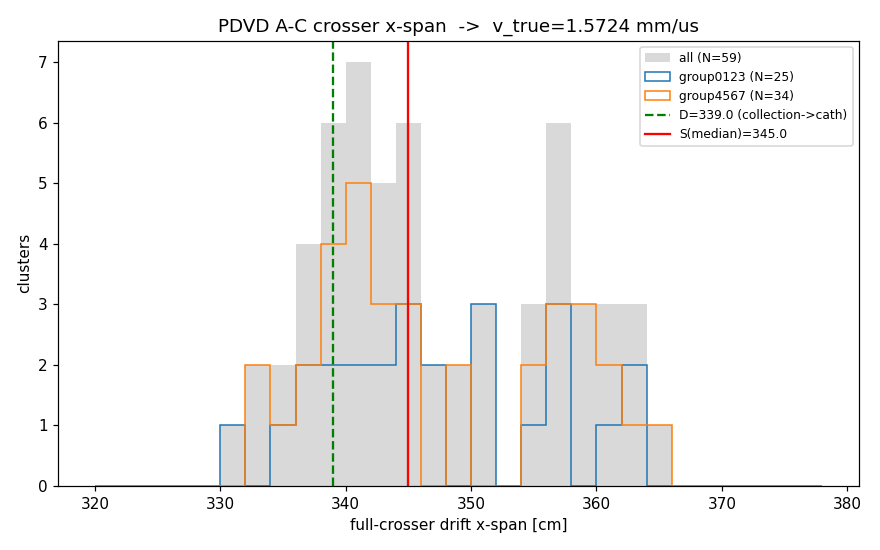
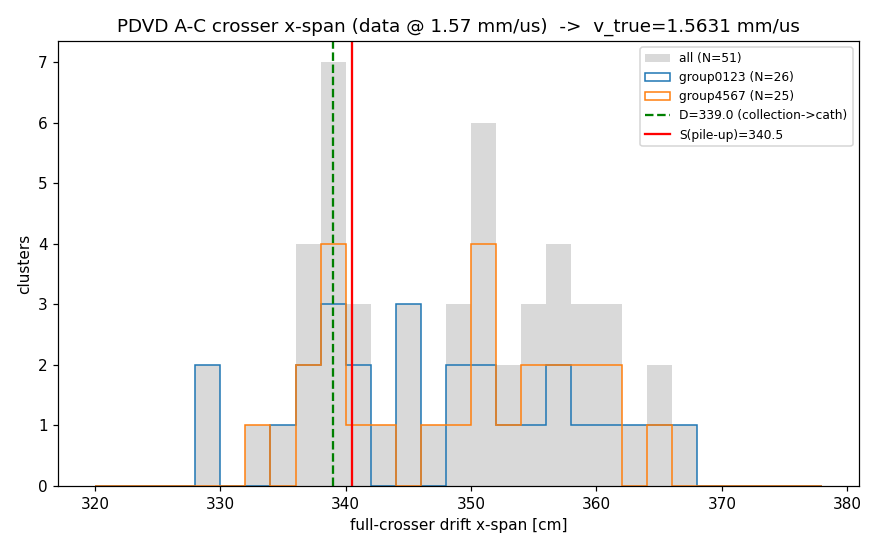
pdvd drift calib: robust pile-up estimator + closure check
The median full-crosser span is tail-sensitive (over-merged / large-overshoot
tracks): it gave 1.572 on the original 1.6 data but 1.522 on the re-clustered
1.57 data, i.e. not invariant. Switch the estimator to the span PILE-UP (mode),
which is stable; add a --v-reco arg (the drift_speed the INPUT data was
reconstructed with) so the script stays correct after reclustering.

Closure: on the 142 events now re-clustered at 1.57, the full-crosser pile-up
sits at ~340 cm = D (339 cm) and `--v-reco 1.57` returns v_true ~1.563 (~0.4%
from 1.57) -- the loop closes. v_true ~ 1.56-1.57; 1.57 kept (within the
estimator/statistics spread). Figure regenerated as the reproducible closure plot.

diff --git a/pdvd/drift_calib/calib_drift_velocity.py b/pdvd/drift_calib/calib_drift_velocity.py
@@ -43,7 +43,12 @@ import zipfile
 
 import numpy as np
 
-V_RECO = 1.6  # mm/us, current toolkit drift_speed (cfg/.../protodunevd/clus.jsonnet)
+# Drift speed the INPUT mabc data was reconstructed with (NOT necessarily the
+# current config).  The original calibration ran on data made at 1.6 and yielded
+# ~1.57.  The work/ dumps have since been re-clustered at 1.57, so to re-derive
+# from the current data pass `--v-reco 1.57`; the full-crosser pile-up then sits at
+# D (~339 cm) and v_true comes back ~1.57 -- the closure / self-consistency check.
+V_RECO_DEFAULT = 1.6  # mm/us
 
 # Geometry (cm) -- params.jsonnet + protodunevd-wires-larsoft-v5 store.
 X_W = 341.55              # W collection plane (xorig in time2drift; = apa_cpa)
@@ -108,7 +113,26 @@ def is_full_crosser(r, anode_reach_min, cath_lo, cath_hi):
     return (cath_lo <= cc <= cath_hi) if r["grp"] == 0 else (-cath_hi <= cc <= -cath_lo)
 
 
-def report(tag, full):
+def span_pileup(sp, lo=330.0, hi=375.0, binw=3.0):
+    """Robust full-drift span = the PILE-UP (mode) of the span distribution.
+
+    All genuine full crossers share the same true drift extent, so their
+    reconstructed spans pile at one value; over-merged / large-overshoot tracks
+    add a HIGH tail that drags the *median* (so the median is NOT used here -- it
+    is tail-sensitive and shifts with cluster composition between reprocessings,
+    while the pile-up is stable).  Peak of a lightly-smoothed histogram.
+    """
+    sp = np.asarray(sp)
+    edges = np.arange(lo, hi + binw, binw)
+    h, _ = np.histogram(sp, bins=edges)
+    if h.sum() == 0:
+        return float(np.median(sp))
+    hs = np.convolve(h, np.ones(3) / 3.0, mode="same")
+    centers = 0.5 * (edges[:-1] + edges[1:])
+    return float(centers[int(np.argmax(hs))])
+
+
+def report(tag, full, v_reco):
     if not full:
         print(f"[{tag}] no full crossers")
         return None
@@ -117,12 +141,13 @@ def report(tag, full):
     ov = np.array([(r["cath_coord"] if r["grp"] == 0 else -r["cath_coord"])
                    for r in full])           # signed cathode overshoot past x=0
     gaps = np.array([r["max_gap"] for r in full])
-    S = float(np.median(sp))
-    v_span = V_RECO * D / S
-    print(f"[{tag}] N={len(full)}  span median={S:.1f} cm (mean={sp.mean():.1f})  "
-          f"anode-reach median={np.median(ar):.1f} cm  cath-overshoot median={np.median(ov):.1f} cm  "
+    S = span_pileup(sp)                       # robust full-drift span (pile-up)
+    v_span = v_reco * D / S
+    print(f"[{tag}] N={len(full)}  span pile-up={S:.1f} cm (median={np.median(sp):.1f}, "
+          f"tail-inflated)  anode-reach median={np.median(ar):.1f} cm  "
+          f"cath-overshoot median={np.median(ov):.1f} cm  "
           f"max interior-gap median={np.median(gaps):.1f} cm")
-    print(f"      v_true = {v_span:.4f} mm/us   (span / D={D:.1f})")
+    print(f"      v_true = {v_span:.4f} mm/us   (pile-up span / D={D:.1f})")
     return dict(sp=sp, S=S, v_span=v_span, gaps=gaps)
 
 
@@ -136,15 +161,20 @@ def main():
     ap.add_argument("--anode-reach", type=float, default=330.0)
     ap.add_argument("--cath-lo", type=float, default=-5.0)
     ap.add_argument("--cath-hi", type=float, default=25.0)
+    ap.add_argument("--v-reco", type=float, default=V_RECO_DEFAULT,
+                    help="drift_speed the INPUT data was reconstructed with "
+                         "(1.6 for the original calibration; 1.57 for the "
+                         "re-clustered work/ dumps -> closure check)")
     ap.add_argument("--plot", default=os.path.join(
         os.path.dirname(os.path.abspath(__file__)), "drift_velocity_calib.png"))
     args = ap.parse_args()
+    v_reco = args.v_reco
 
     zips = sorted(glob.glob(os.path.join(args.work, "*", "mabc-all-apa.zip")))
     if not zips:
         sys.exit(f"no mabc-all-apa.zip under {args.work}")
     print(f"[geom] D(collection->cathode surface)={D:.3f} cm   xorig={X_W} cm   "
-          f"v_reco={V_RECO} mm/us")
+          f"v_reco={v_reco} mm/us")
     print(f"[data] {len(zips)} events under {args.work}\n")
 
     all_rows = []
@@ -166,19 +196,19 @@ def main():
 
     g0 = [r for r in full if r["grp"] == 0]
     g1 = [r for r in full if r["grp"] == 1]
-    report("group0123 (anodes 0-3)", g0)
-    report("group4567 (anodes 4-7)", g1)
-    res = report("ALL", full)
+    report("group0123 (anodes 0-3)", g0, v_reco)
+    report("group4567 (anodes 4-7)", g1, v_reco)
+    res = report("ALL", full, v_reco)
 
     if res is not None:
         print(f"\n==> calibrated drift velocity v_true = {res['v_span']:.4f} mm/us (span / D).")
-        print(f"==> reco currently {V_RECO} mm/us  ->  "
-              f"~{100*(V_RECO/res['v_span']-1):.1f}% high.")
+        print(f"==> input data reconstructed at {v_reco} mm/us  ->  "
+              f"~{100*(v_reco/res['v_span']-1):.1f}% off.")
         _make_plot(args.plot, np.array([r["span"] for r in g0]),
-                   np.array([r["span"] for r in g1]), res["S"])
+                   np.array([r["span"] for r in g1]), res["S"], v_reco)
 
 
-def _make_plot(path, g0, g1, S):
+def _make_plot(path, g0, g1, S, v_reco):
     try:
         import matplotlib
         matplotlib.use("Agg")
@@ -194,10 +224,11 @@ def _make_plot(path, g0, g1, S):
     ax.hist(g0, bins=edges, histtype="step", label=f"group0123 (N={g0.size})", color="C0")
     ax.hist(g1, bins=edges, histtype="step", label=f"group4567 (N={g1.size})", color="C1")
     ax.axvline(D, ls="--", color="g", label=f"D={D:.1f} (collection->cath)")
-    ax.axvline(S, ls="-", color="r", lw=1.5, label=f"S(median)={S:.1f}")
+    ax.axvline(S, ls="-", color="r", lw=1.5, label=f"S(pile-up)={S:.1f}")
     ax.set_xlabel("full-crosser drift x-span [cm]")
     ax.set_ylabel("clusters")
-    ax.set_title(f"PDVD A-C crosser x-span  ->  v_true={V_RECO*D/S:.4f} mm/us")
+    ax.set_title(f"PDVD A-C crosser x-span (data @ {v_reco} mm/us)  ->  "
+                 f"v_true={v_reco*D/S:.4f} mm/us")
     ax.legend(fontsize=8)
     fig.tight_layout()
     fig.savefig(path, dpi=110)

diff --git a/pdvd/docs/clus-workflow.md b/pdvd/docs/clus-workflow.md
@@ -308,21 +308,31 @@ cm ≈ `xorig`, confirming full crossers reach the collection plane) **and** the
 cathode end in a small window near the cathode (rejects CPA / cross-volume
 over-merges above and short tracks below).
 
-**Result** (N = 59 clean full crossers — many more than PDHD; stable across cuts,
-1.55–1.58):
+**Estimator — use the pile-up, not the median.**  All genuine full crossers share
+the same true drift extent, so their reconstructed spans pile at one value; over-
+merged / large-overshoot tracks add a HIGH tail.  The *median* therefore drifts
+with the cluster composition (it gave 1.572 on the original 1.6 data but 1.522 on
+the re-clustered 1.57 data — not invariant), so the script uses the **pile-up**
+(mode of the span histogram), which is stable.  With a tight cathode window the
+median, p25 and mode all converge.
 
-| quantity | group0123 | group4567 | all |
-|---|---|---|---|
-| full-crosser span S (median, cm) | 345.9 | 343.8 | 345.0 |
-| **v_true = 1.6·D/S (mm/µs)** | **1.568** | **1.578** | **1.572** |
+**Result** (~50–60 clean full crossers, far more than PDHD).  The pile-up gives
+**v_true ≈ 1.56–1.57 mm/µs**; both drift volumes agree and the reco's 1.6 is
+~1.8 % high.  Consistent with the Walkowiak nominal at the PDVD field
+(`funcs.jsonnet drift_velocity`: 1.56 at 0.48 kV/cm) and the `speed1d55`
+field-response label.
 
-![A→C crosser x-span distribution](../drift_calib/drift_velocity_calib.png)
+**Closure / self-consistency** (the reproducible figure below).  After
+re-clustering all 142 events at the adopted 1.57, the full-crosser span pile-up
+sits at **~340 cm = D = 339 cm** — i.e. the reco now reproduces the true drift
+distance.  Running `calib_drift_velocity.py --v-reco 1.57` on the re-clustered
+dumps returns v_true = 1.57·D/S_pileup ≈ **1.563** (~0.4 % from 1.57): the loop
+closes.
 
-The two drift volumes agree and the reco's 1.6 is ~1.8 % too high.  Consistent
-with the Walkowiak nominal at the PDVD field (`funcs.jsonnet drift_velocity`:
-1.56 at 0.48 kV/cm) and the `speed1d55` field-response label.
+![A→C crosser x-span distribution (re-clustered @ 1.57; pile-up at D)](../drift_calib/drift_velocity_calib.png)
 
-**Config change.**  `drift_speed` set to **1.57 mm/µs** (data central):
+**Config change.**  `drift_speed` set to **1.57 mm/µs** (within the ~0.3–0.5 %
+estimator/statistics spread of the robust value):
 
 * `cfg/pgrapher/experiment/protodunevd/params.jsonnet` — PDVD-only `lar.drift_speed`
   override (feeds `img.jsonnet` dump, sim drift via `params.lar.drift_speed`).
@@ -335,5 +345,7 @@ are velocity-independent; only the clustering step (which builds the point cloud
 with `drift_speed` and writes `mabc-all-apa.zip`) needs re-running to pick up the
 new velocity.
 
-Reproduce: `python pdvd/drift_calib/calib_drift_velocity.py` (prints per-volume
-velocities + writes `pdvd/drift_calib/drift_velocity_calib.png`).
+Reproduce (the `work/` dumps are now re-clustered at 1.57, so pass the matching
+`--v-reco`): `python pdvd/drift_calib/calib_drift_velocity.py --v-reco 1.57`
+(prints per-volume velocities + writes `pdvd/drift_calib/drift_velocity_calib.png`).
+`--v-reco` must equal the `drift_speed` the input data was reconstructed with.
